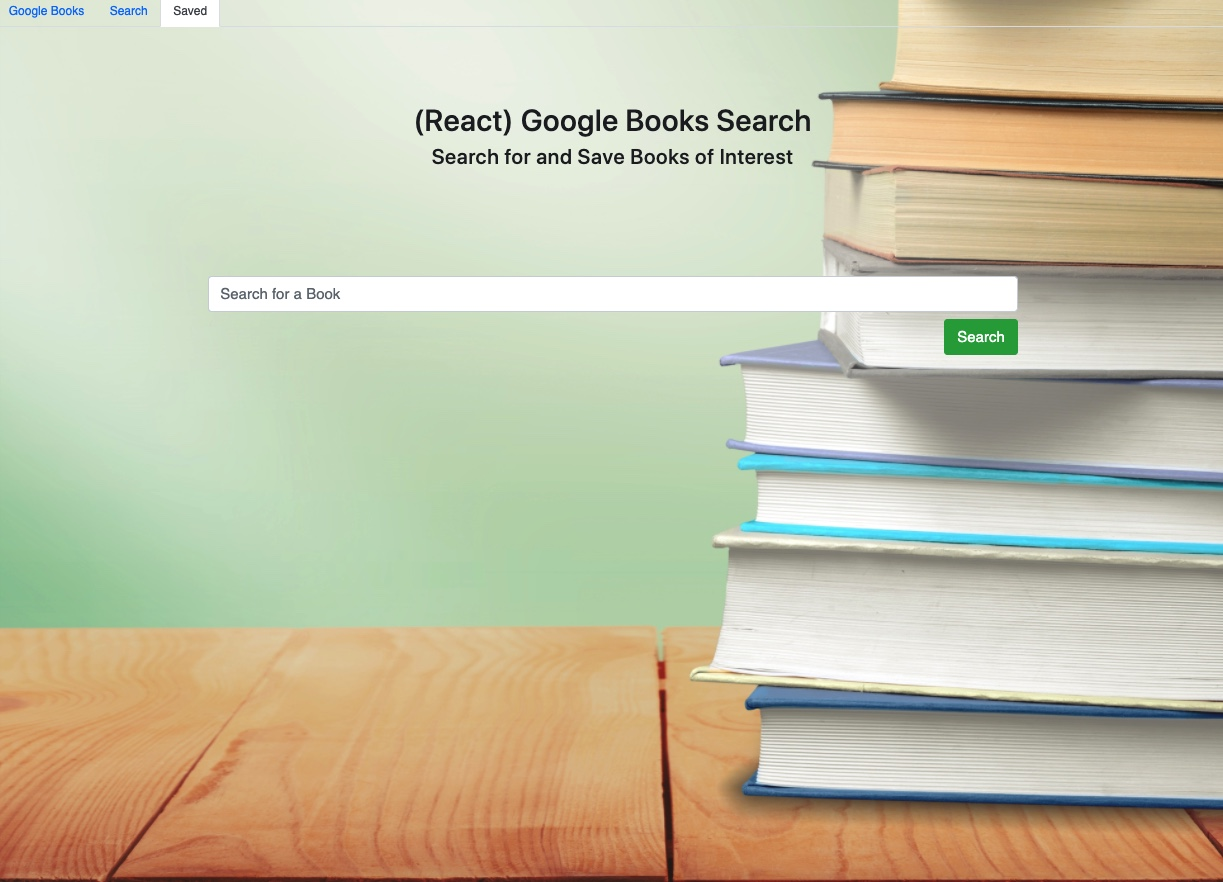
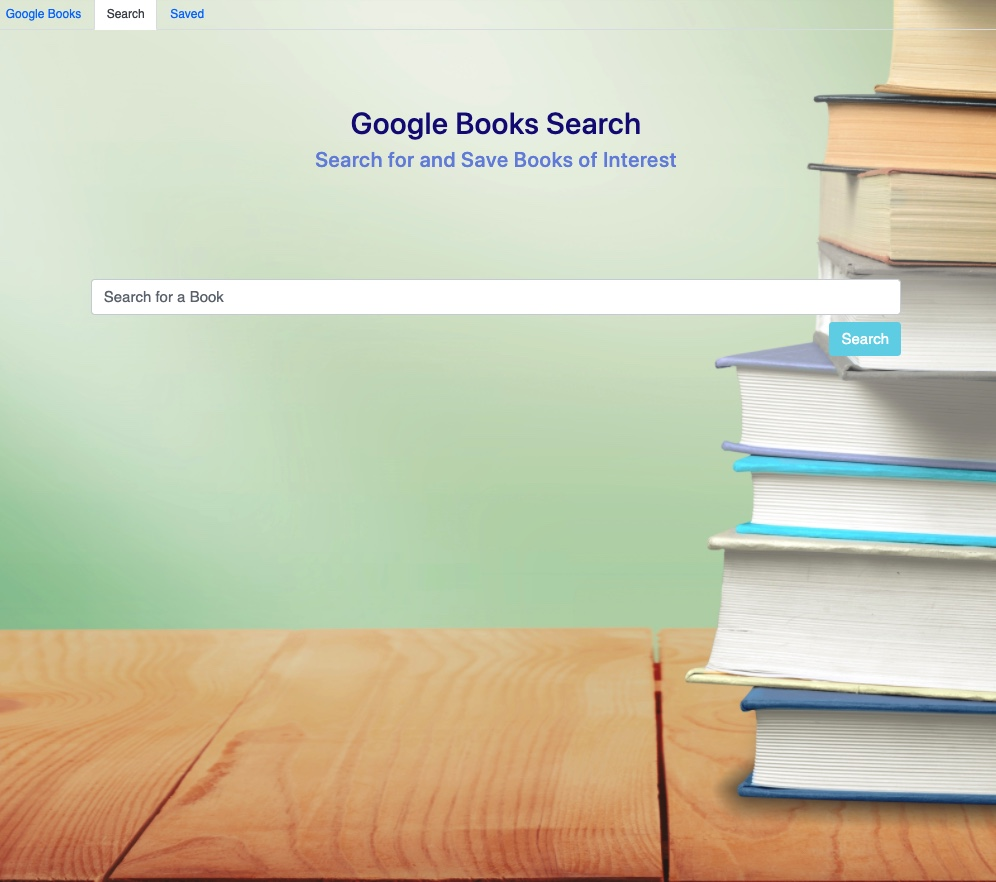
modified pics

diff --git a/src/components/Grid/index.js b/src/components/Grid/index.js
@@ -2,18 +2,14 @@ import React from "react";
 
 // Exporting the Container, Row, and Col components from this file
 
-// This Container component allows us to use a bootstrap container without worrying about class names
 export function Container({ fluid, children }) {
   return <div className={`container${fluid ? "-fluid" : ""}`}>{children}</div>;
 }
 
-// This Row component lets us use a bootstrap row without having to think about class names
 export function Row({ fluid, children }) {
   return <div className={`row${fluid ? "-fluid" : ""}`}>{children}</div>;
 }
 
-// This Col component lets us size bootstrap columns with less syntax
-// e.g. <Col size="md-12"> instead of <div className="col-md-12">
 export function Col({ size, children }) {
   return (
     <div

diff --git a/src/components/List/style.css b/src/components/List/style.css
@@ -1,3 +1,6 @@
 .view {
   margin-right: 3px;
 }
+.btn-primary {
+  background-color: rgb(183, 126, 236);
+}
